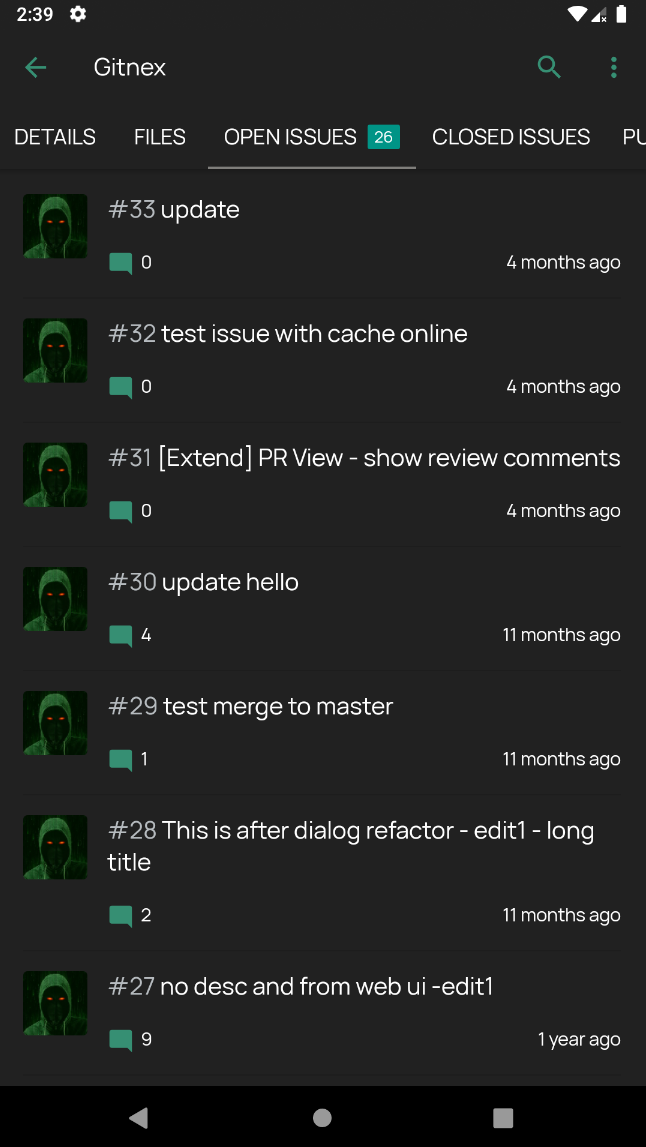
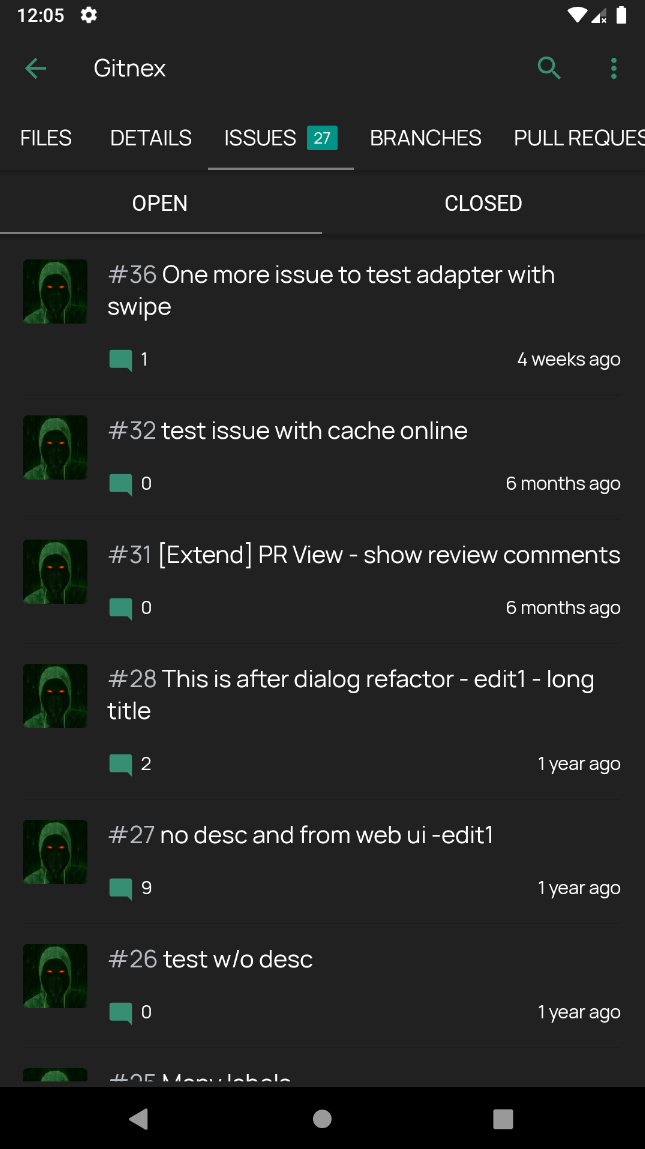
Shuffle tabs, add images (#430)
update images
workaround for #414 (shuffle tabs)

diff --git a/app/src/main/java/org/mian/gitnex/activities/RepoDetailActivity.java b/app/src/main/java/org/mian/gitnex/activities/RepoDetailActivity.java
@@ -165,8 +165,8 @@ public class RepoDetailActivity extends BaseActivity implements BottomSheetRepoF
 
             // pull count
             if (textViewBadgePull.getText() != "") { // only show if API returned a number
-                Objects.requireNonNull(tabLayout.getTabAt(3)).setCustomView(tabHeader4);
-                TabLayout.Tab tabOpenPulls = tabLayout.getTabAt(3);
+                Objects.requireNonNull(tabLayout.getTabAt(4)).setCustomView(tabHeader4);
+                TabLayout.Tab tabOpenPulls = tabLayout.getTabAt(4);
                 assert tabOpenPulls != null;
                 TextView openPullTabView = Objects.requireNonNull(tabOpenPulls.getCustomView()).findViewById(R.id.counterBadgePullText);
                 openPullTabView.setTextColor(textColor);
@@ -299,18 +299,18 @@ public class RepoDetailActivity extends BaseActivity implements BottomSheetRepoF
 
             Fragment fragment = null;
             switch (position) {
-                case 0: // information
-                    return RepoInfoFragment.newInstance(repoOwner, repoName);
-                case 1: // files
+                case 0: // files
                     return FilesFragment.newInstance(repoOwner, repoName);
+                case 1: // information
+                    return RepoInfoFragment.newInstance(repoOwner, repoName);
                 case 2: // issues
                     fragment = new IssuesMainFragment();
                     break;
-                case 3: // pull requests
+                case 3: // branches
+                    return BranchesFragment.newInstance(repoOwner, repoName);
+                case 4: // pull requests
                     fragment = new PullRequestsFragment();
                     break;
-                case 4: // branches
-                    return BranchesFragment.newInstance(repoOwner, repoName);
                 case 5: // releases
                     return ReleasesFragment.newInstance(repoOwner, repoName);
                 case 6: // milestones
